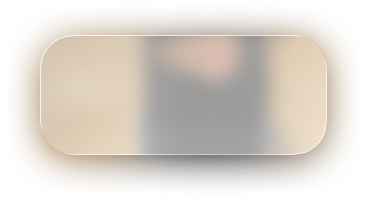
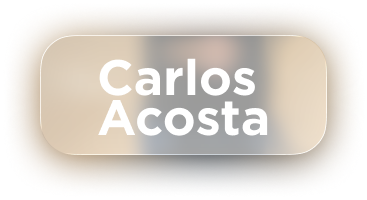
team section done

Changed region(s): [[0.2698, 0.27, 0.7493, 0.69]]

diff --git a/src/components/sections/TeamSection.tsx b/src/components/sections/TeamSection.tsx
@@ -40,22 +40,20 @@ export function TeamSection({ isVisible }: TeamSectionProps) {
                     <img
                       src={member.photo}
                       alt={member.name}
-                      className="rounded-[24px] w-[140px] h-[200px] sm:w-[180px] sm:h-[260px] md:w-[200px] md:h-[300px] object-cover shadow-md transition-transform duration-300 ease-out group-hover:-translate-y-2 group-active:-translate-y-2 group-focus:-translate-y-2"
+                      className="rounded-[24px] w-[140px] h-[200px] sm:w-[180px] sm:h-[260px] md:w-[200px] md:h-[300px] object-cover shadow-md transition-transform duration-300 ease-out group-hover:-translate-y-3 group-active:-translate-y-3 group-focus:-translate-y-3"
                     />
                     {/* Banner dentro de la foto, alineado al borde inferior */}
                     <img
                       src={member.banner}
                       alt={`${member.name} banner`}
-                      className="absolute left-1/2 bottom-0 -translate-x-1/2 w-[85%] sm:w-[80%] md:w-[95%] rounded-[16px] shadow-lg"
+                      className="absolute left-1/2 bottom-0 -translate-x-1/2 w-[100%] sm:w-[100%] md:w-[100%] rounded-[16px] shadow-lg"
                     />
                   </div>
                 </div>
 
-                {/* Descripción oculta, aparece con efecto glass */}
-                <div
-                  className="absolute inset-x-0 bottom-0 opacity-0 translate-y-2 group-hover:opacity-100 group-hover:translate-y-0 group-active:opacity-100 group-focus:opacity-100 transition-all duration-300"
-                >
-                  <div className="rounded-2xl border border-white/40 bg-white/30 px-3 py-2 text-[11px] sm:text-xs md:text-sm text-black shadow-lg backdrop-blur supports-[backdrop-filter]:bg-white/25">
+                {/* Descripción debajo de la foto, nunca encima */}
+                <div className="absolute left-1/2 top-[200px] sm:top-[260px] md:top-[300px] -translate-x-1/2 opacity-0 group-hover:opacity-100 group-active:opacity-100 group-focus:opacity-100 transition-opacity duration-300 pointer-events-none z-10">
+                  <div className="w-[260px] sm:w-[320px] md:w-[380px] max-w-none rounded-2xl border border-white/40 bg-white/30 px-3 py-2 text-[11px] sm:text-xs md:text-sm text-black shadow-lg backdrop-blur supports-[backdrop-filter]:bg-white/25">
                     {member.description}
                   </div>
                 </div>
@@ -65,7 +63,7 @@ export function TeamSection({ isVisible }: TeamSectionProps) {
         </div>
 
         {/* Botón ver más estilo "liquid glass" */}
-        <button className="w-full max-w-xs rounded-full border border-white/40 bg-white/30 px-6 py-3 text-sm sm:text-base text-black shadow-lg backdrop-blur supports-[backdrop-filter]:bg-white/25 hover:bg-white/40 transition-all duration-300">
+        <button className="inline-block rounded-full border border-white/40 bg-white/30 px-6 py-3 text-sm sm:text-base text-black shadow-lg backdrop-blur supports-[backdrop-filter]:bg-white/25 hover:bg-white/40 transition-all duration-300">
           ver más
         </button>
       </div>

diff --git a/src/features/team/teamData.ts b/src/features/team/teamData.ts
@@ -30,7 +30,7 @@ export const teamMembers: TeamMember[] = [
     photo: carlosAcosta,
     banner: bannerCarlosAcosta,
     description:
-      'Lorem ipsum dolor sit amet, consectetur adipiscing elit. Vestibulum et sapien ut nibh dictum lacinia.',
+      'Ingeniero de la Universidad de Columbia en Nueva York y ex Gerente de Ciudad en Barranquilla, lideró proyectos urbanos transformadores como el Gran Malecón y un galardonado sistema de parques. Dirigió la plantación de 150,000 árboles y transformó Puerta de Oro de organizadora de eventos a también una estructuradora de proyectos.',
   },
   {
     id: 'ricardo-plata',
